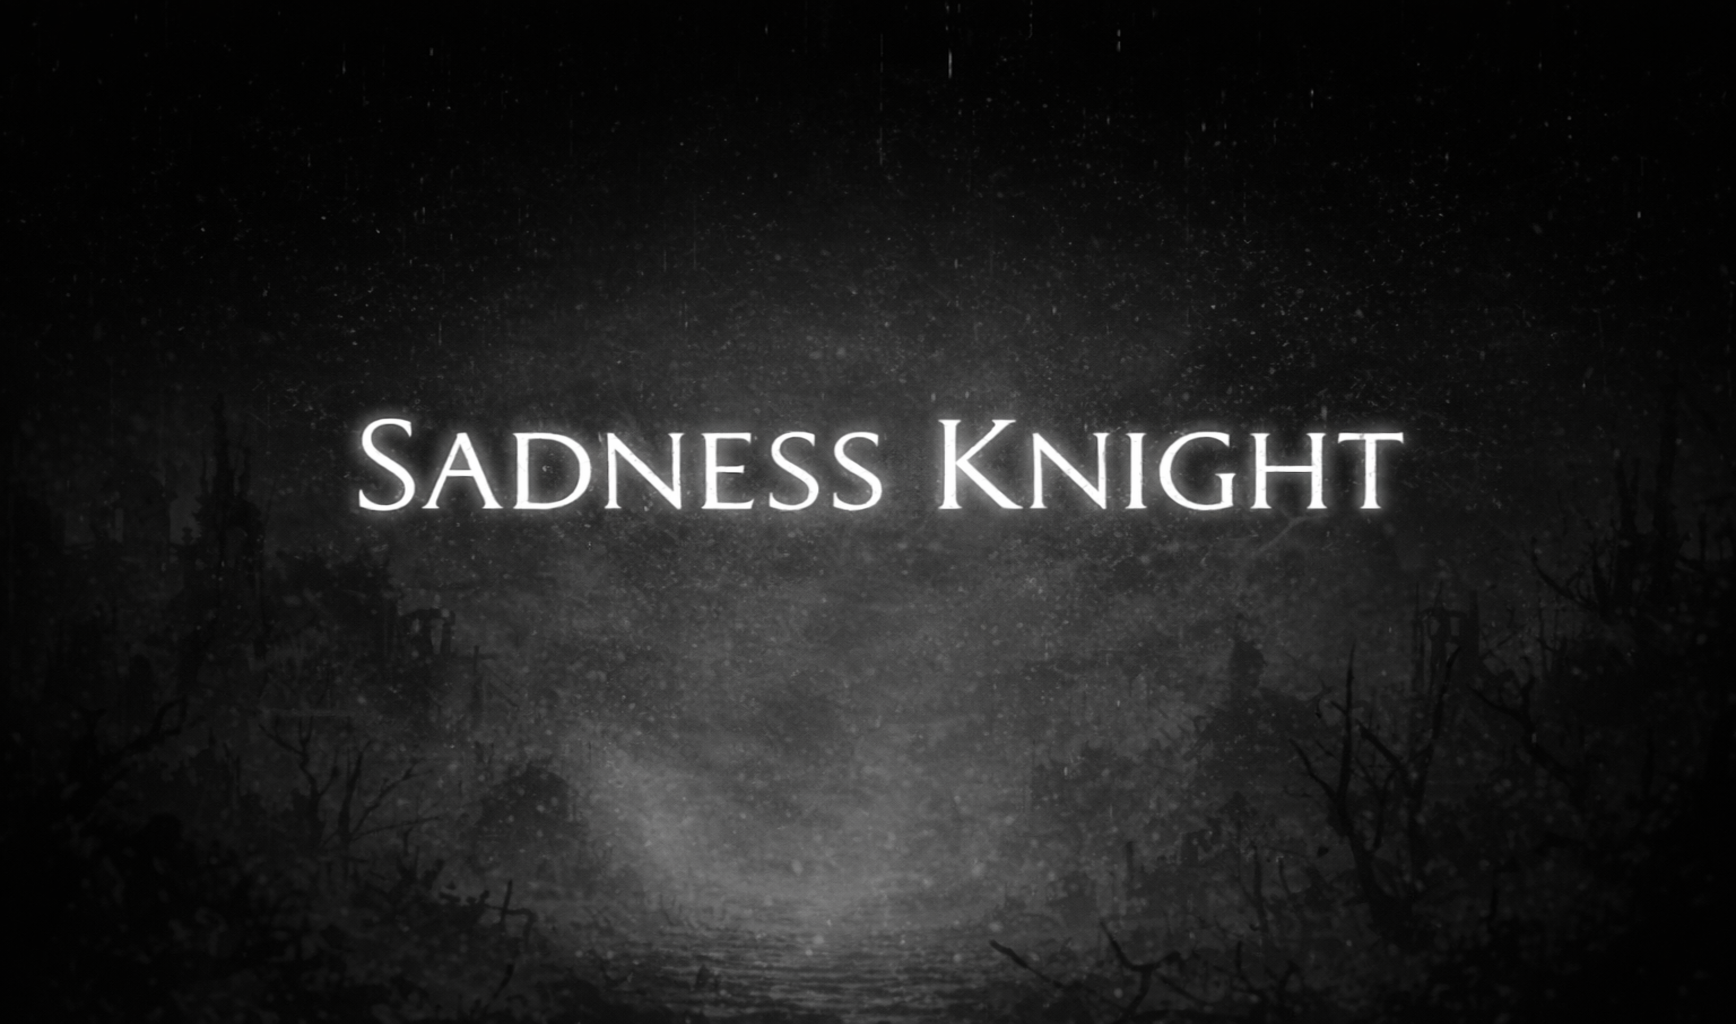
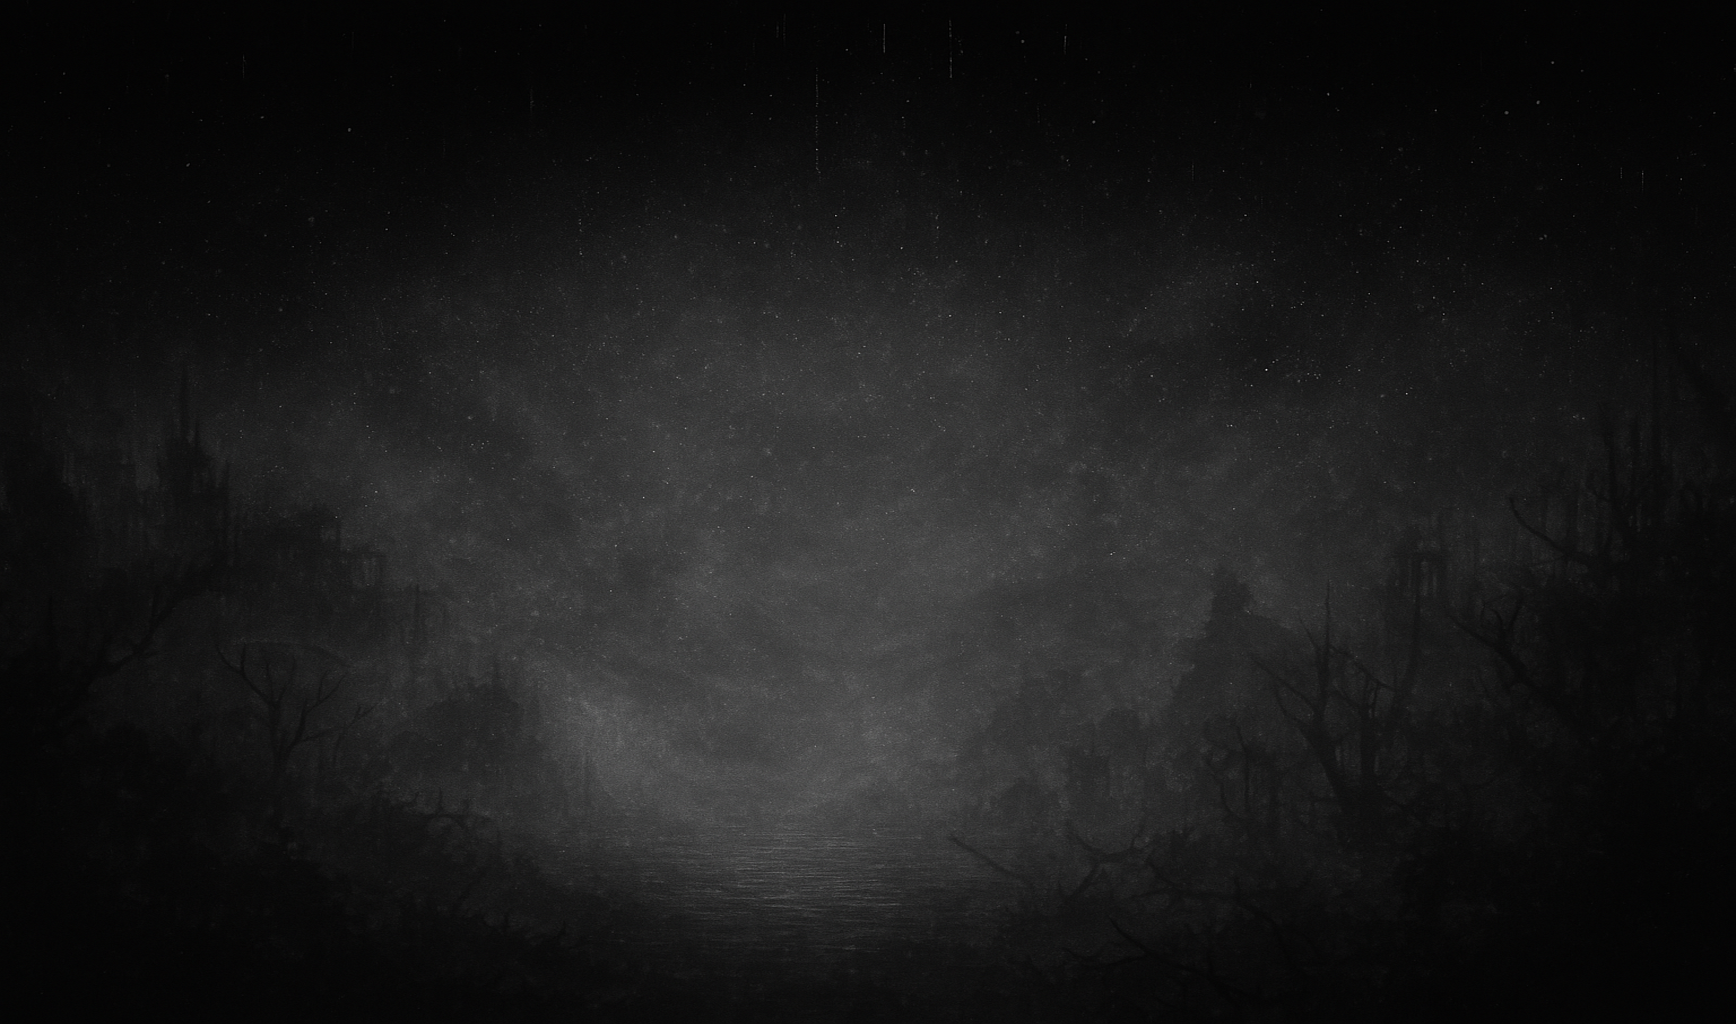
タイトル

diff --git a/SADNESS KNIGHT/Source/Scene/Title/Title.cpp b/SADNESS KNIGHT/Source/Scene/Title/Title.cpp
@@ -40,6 +40,7 @@ static bool g_SaveSlotExists[SAVE_SLOT_MAX];
 // 画像
 static int g_BGHandle = -1;
 static int g_TitleHandle = -1;
+static int g_TitleUIHandle = -1;
 
 static int g_SelectFrameHandle = -1;
 
@@ -74,6 +75,7 @@ void LoadTitleScene()
 {
 	g_BGHandle = LoadGraph("Data/Title/TitleBG.png");
 	g_TitleHandle = LoadGraph("Data/Title/TitleText.png");
+	g_TitleUIHandle = LoadGraph("Data/Title/TitleUI.png");
 	g_SelectFrameHandle = LoadGraph("Data/UI/UI_Elements01.png");
 
 	g_MenuFont = CreateFontToHandle("Yu Mincho",32,5,DX_FONTTYPE_ANTIALIASING_4X4);
@@ -270,6 +272,7 @@ void DrawTitleScene()
 	// 背景
 	DrawGraph(0, 0, g_BGHandle, TRUE);
 	DrawGraph(TITLE_POS_X, TITLE_POS_Y, g_TitleHandle, TRUE);
+	DrawGraph(0, -60, g_TitleUIHandle, TRUE);
 
 	// スロット画面のときは背景を暗くするんや
 	if (g_TitleState == TitleState::SelectSlot_New ||
@@ -435,6 +438,7 @@ void FinTitleScene()
 {
 	DeleteGraph(g_BGHandle);
 	DeleteGraph(g_TitleHandle);
+	DeleteGraph(g_TitleUIHandle);
 	StopBGM(BGM_TITLE);
 	DeleteFontToHandle(g_MenuFont);
 	DeleteFontToHandle(g_DataSelectFont);
